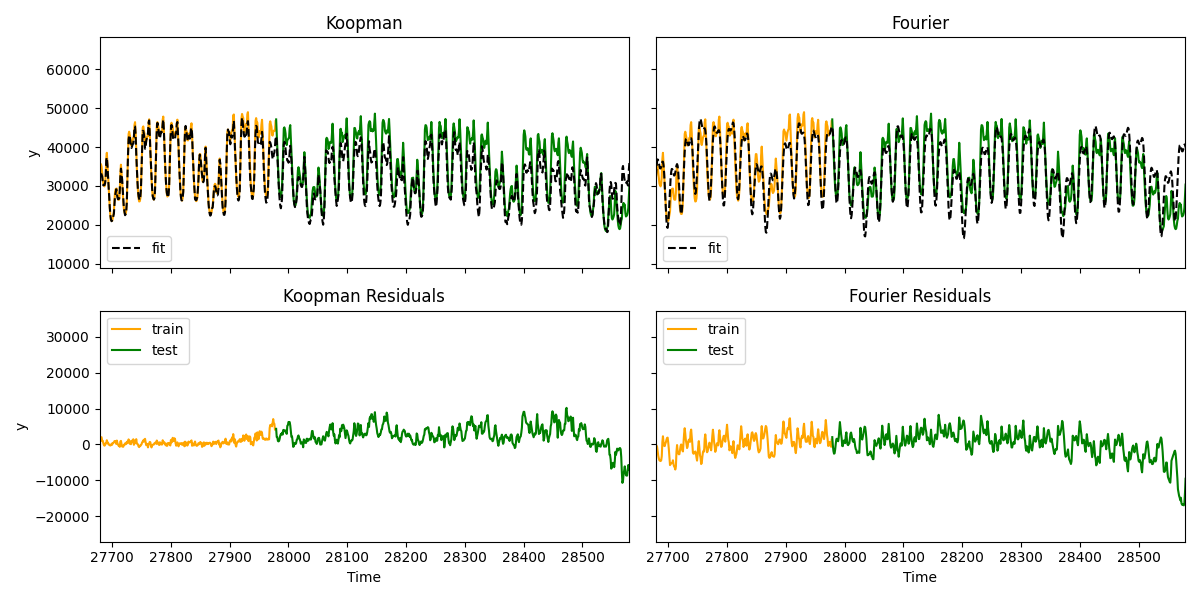
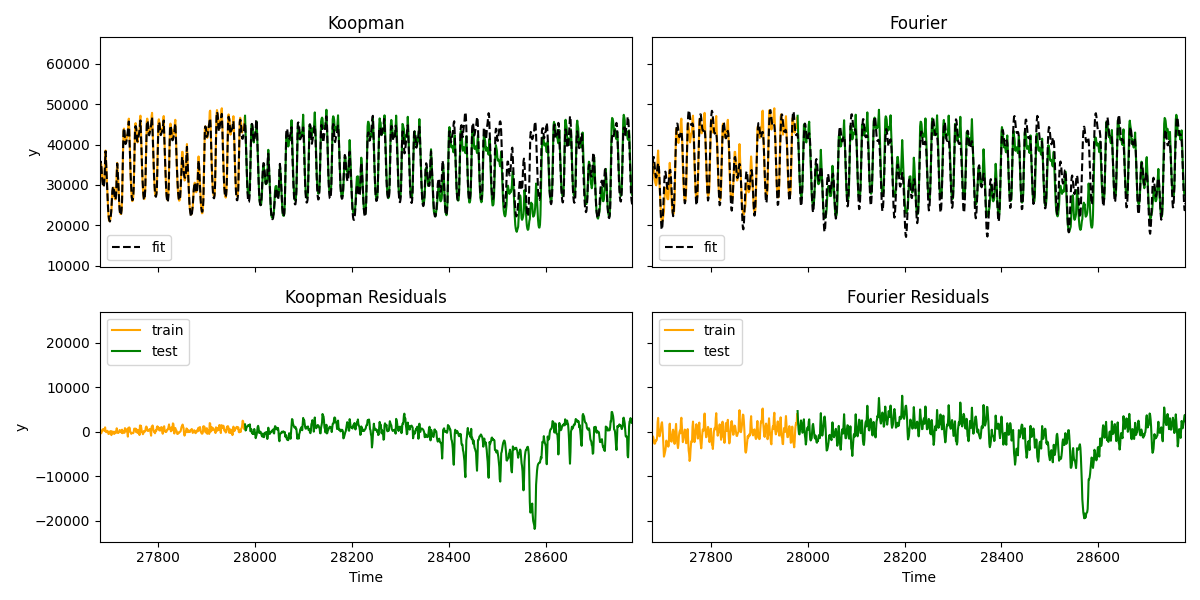
new plots

diff --git a/main.py b/main.py
@@ -143,7 +143,8 @@ def main(data,data_kwargs,normalize,num_freqs_fourier,num_freqs_koopman,n_neuron
         if "omegas" in fit_kwargs.keys():
             freqs_input = [1/i for i in fit_kwargs["omegas"]]
             f.fit(scaled, freqs = freqs_input, iterations = 1000,verbose = True)
-        f.fit(scaled, iterations = 1000,verbose = True)
+        else:
+            f.fit(scaled, iterations = 1000,verbose = True)
         print(1/f.freqs)
         xhat_fourier = f.predict(size)
         xhat_fourier = f.descale(xhat_fourier)
@@ -166,7 +167,7 @@ def main(data,data_kwargs,normalize,num_freqs_fourier,num_freqs_koopman,n_neuron
     fig,axs = plot(x_train,x_test,xhat_fourier,xhat_koopman,split,size)
     plt.tight_layout()
     plt.savefig(f"figures/{figname}.png")
-    plt.show()
+    plt.close()
     #zoom
     fig,axs = plot(x_train,x_test,xhat_fourier,xhat_koopman,split,size)
     xlim = (split-zoom[0], split+zoom[1])
@@ -175,6 +176,7 @@ def main(data,data_kwargs,normalize,num_freqs_fourier,num_freqs_koopman,n_neuron
     plt.tight_layout()
     plt.savefig(f"figures/{figname}_zoom.png")
     plt.close()
+    
 
 
 params_base = {
@@ -223,32 +225,32 @@ if __name__ == '__main__':
     # params["figname"] = "artificial_noise_nonlinear"
     # main(**params)
     ### experiment 5
-    params["data"] = data.lorenz
-    params["data_kwargs"] = {"split_ratio": 0.6}
-    params["figname"] = "lorenz"
-    params["num_freqs_fourier"] = 32
-    params["num_freqs_koopman"] = 32
-    params["n_neurons"] = 512
-    params["n_layers"] = 3
-    params["fit_kwargs"]["interval"] = 25
-    params["fit_kwargs"]["iterations"] = 500
-    params["fit_kwargs"]["cutoff"] = 400
-    # params["fit_kwargs"]["lr_omega"] = 1e-5
-    params["zoom"] = (1000,1000)
-    params["normalize"] = True
-    main(**params)
+    # params["data"] = data.lorenz
+    # params["data_kwargs"] = {"split_ratio": 0.6}
+    # params["figname"] = "lorenz"
+    # params["num_freqs_fourier"] = 32
+    # params["num_freqs_koopman"] = 32
+    # params["n_neurons"] = 512
+    # params["n_layers"] = 3
+    # params["fit_kwargs"]["interval"] = 25
+    # params["fit_kwargs"]["iterations"] = 500
+    # params["fit_kwargs"]["cutoff"] = 400
+    # # params["fit_kwargs"]["lr_omega"] = 1e-5
+    # params["zoom"] = (1000,1000)
+    # params["normalize"] = True
+    # main(**params)
     ### experiment 6
     params["data"] = data.energy_consumption
     params["data_kwargs"] = {"split_ratio": 0.6}
     params["figname"] = "energy_consumption"
-    params["num_freqs_fourier"] = 12
-    params["num_freqs_koopman"] = 12
-    params["n_neurons"] = 256
-    params["n_layers"] = 3
+    params["num_freqs_fourier"] = 32
+    params["num_freqs_koopman"] = 32
+    params["n_neurons"] = 512
+    params["n_layers"] = 2
     params["fit_kwargs"]["interval"] = 20
     params["fit_kwargs"]["iterations"] = 250
     params["fit_kwargs"]["cutoff"] = 200
-    params["fit_kwargs"]["omegas"] = [24,168,8760]
+    # params["fit_kwargs"]["omegas"] = [24,168,8760]
     params["zoom"] = (300,800)
     params["sample_num"] = 24
     params["normalize"] = True
